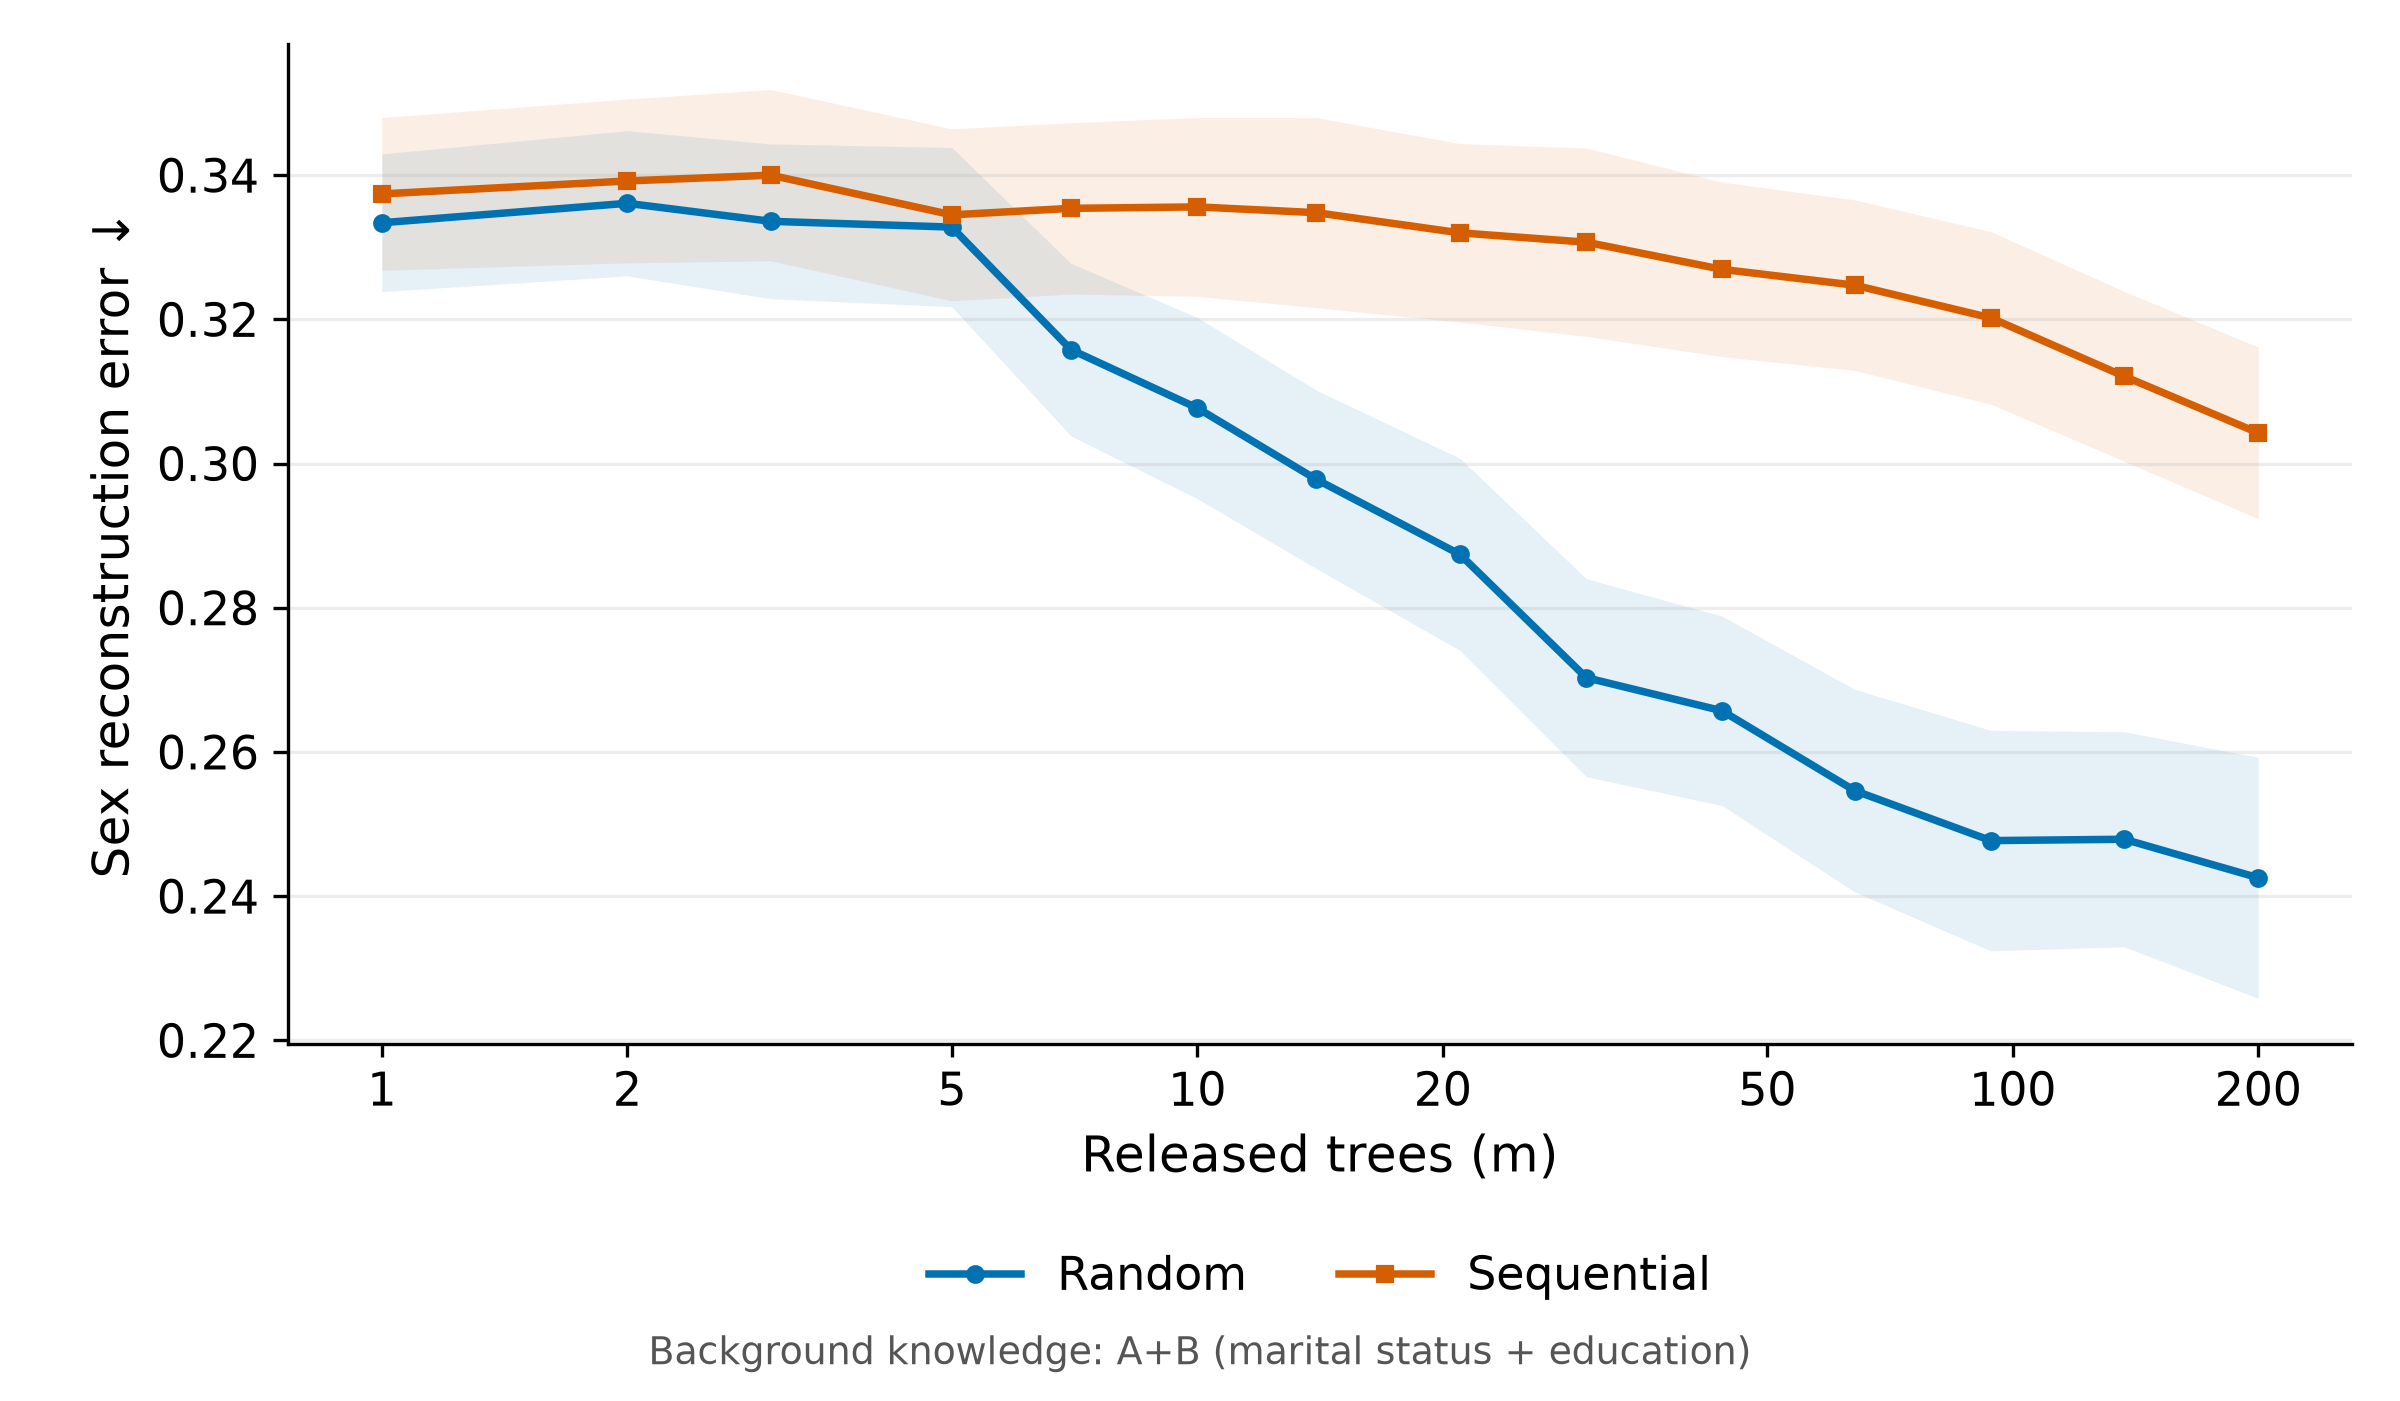
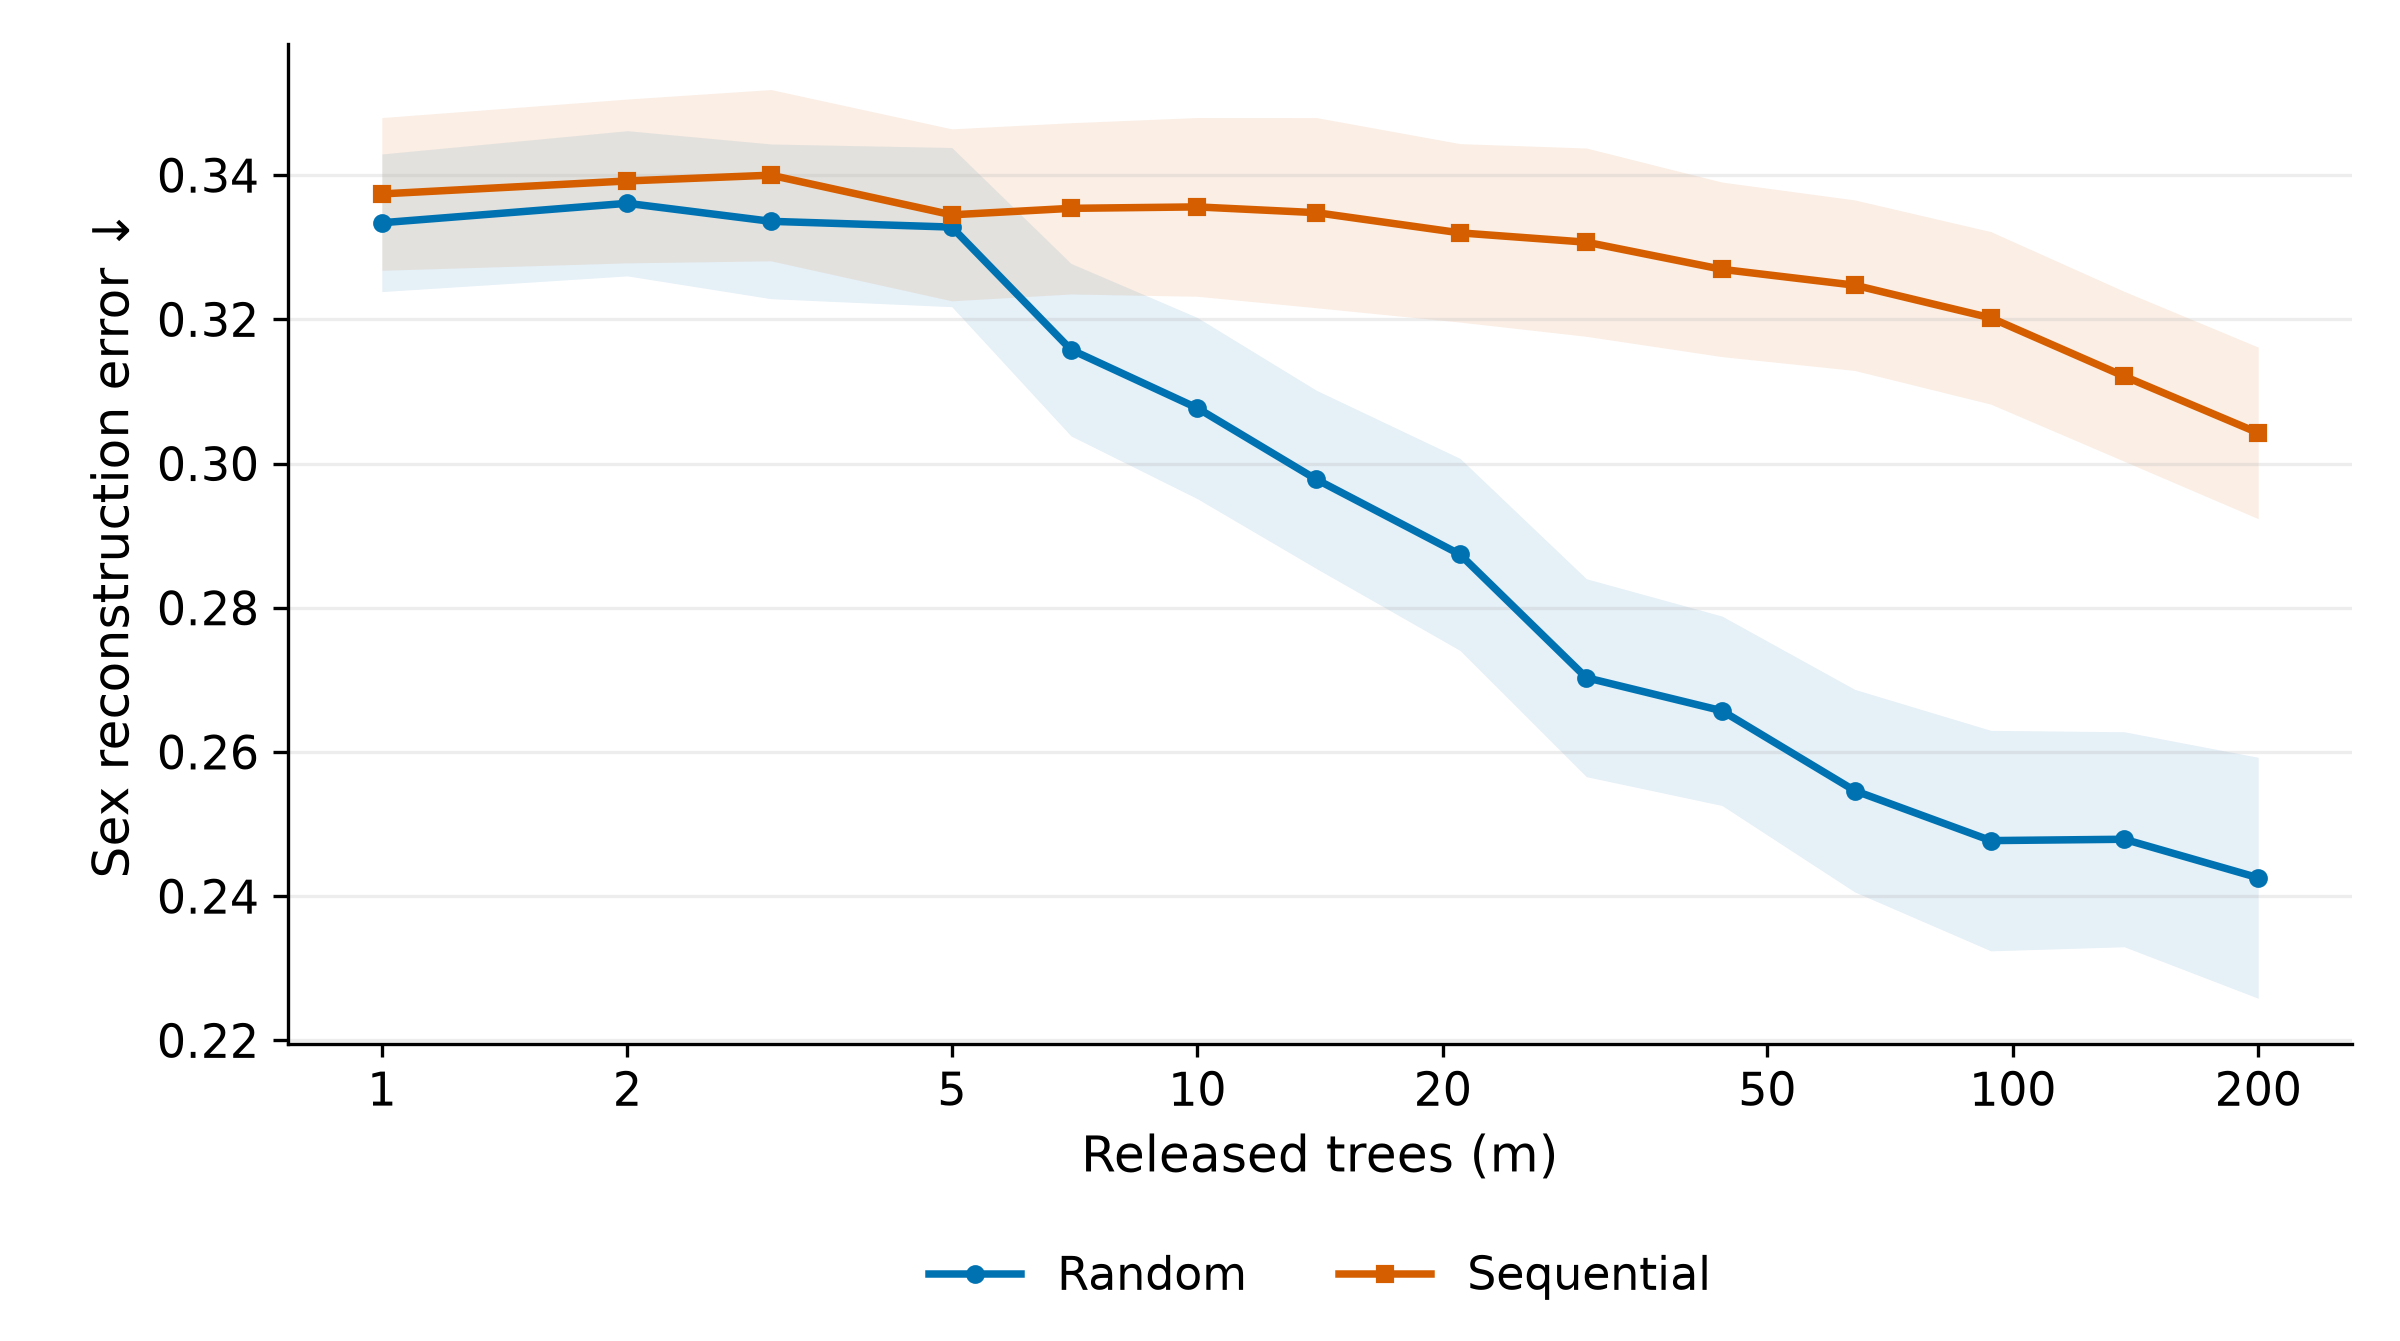
Selection figure without its caption line; public-data calibration figure
attack_selection_comparison: the "Background knowledge: A+B" line is gone
(the poster caption says it); same 4.47 in height as the other attack figures.

experiments/plot_public_data_calibration.py draws
figures/public_data_calibration.png, the poster's overconfidence bars, now
ordered 200 then 2,000 public records within each m. The 2,000-record plain
bars read the official random record-confidence run that 9d56b3a moved out of
main; the docstring gives the restore command (or pass --official-dir).

diff --git a/experiments/plot_public_data_calibration.py b/experiments/plot_public_data_calibration.py
@@ -1,0 +1,176 @@
+"""Overconfidence of the record confidence with 200 vs 2,000 public records.
+
+Usage: .venv/bin/python experiments/plot_public_data_calibration.py
+       (writes figures/public_data_calibration.png)
+
+Bars are per-seed means of stated confidence minus accuracy (prior-guided
+attacker, points) with 95% t-intervals over seeds, for a plain public prior and
+the Dirichlet record prior, at m = 10, 25, 50.
+
+The 2,000-record plain bars come from the official random record-confidence
+run, which commit 9d56b3a moved out of main. Restore it with
+    git restore --source=9d56b3a~1 --worktree -- results/record_confidence/random
+or pass --official-dir. Every other bar reads a timestamped set under results/.
+"""
+
+from __future__ import annotations
+
+import argparse
+from pathlib import Path
+
+import matplotlib
+
+matplotlib.use("Agg")
+import matplotlib.pyplot as plt
+import numpy as np
+import pandas as pd
+from scipy import stats
+
+ROOT = Path(__file__).resolve().parent.parent
+RESULTS = ROOT / "results"
+MS = (10, 25, 50)
+
+INK_2, MUTED, GRID = "#52514e", "#a3a29b", "#e6e5e0"
+# (public records, prior) -> (bar colour, legend label), in left-to-right order
+SERIES = {
+    (200, "plain"): ("#6f6e68", "200 records, plain"),
+    (200, "dirichlet"): ("#2a78d6", "200 records, Dirichlet"),
+    (2000, "plain"): ("#b9b8b1", "2,000 records, plain"),
+    (2000, "dirichlet"): ("#8db9f0", "2,000 records, Dirichlet"),
+}
+# Result sets per (public records, prior) and m, relative to results/; None
+# marks the official run passed as --official-dir.
+SETS = {
+    (200, "plain"): {
+        10: "20261020_210941/record_confidence/m010",
+        25: "20261022_080000/record_confidence/m025",
+        50: "20261022_080000/record_confidence/m050",
+    },
+    (200, "dirichlet"): {
+        10: "20261020_224806/record_confidence/m010",
+        25: "20261022_080000_01/record_confidence/m025",
+        50: "20261022_080000_01/record_confidence/m050",
+    },
+    (2000, "plain"): {m: None for m in MS},
+    (2000, "dirichlet"): {
+        10: "20261020_234026/record_confidence/m010",
+        25: "20261023_130000/record_confidence/m025",
+        50: "20261023_130000/record_confidence/m050",
+    },
+}
+
+plt.rcParams.update(
+    {
+        "font.family": "Inter",
+        "font.size": 14,
+        "axes.labelsize": 14,
+        "xtick.labelsize": 13,
+        "ytick.labelsize": 13,
+        "axes.edgecolor": MUTED,
+        "axes.labelcolor": INK_2,
+        "xtick.color": INK_2,
+        "ytick.color": INK_2,
+        "axes.spines.top": False,
+        "axes.spines.right": False,
+        "axes.grid": True,
+        "axes.grid.axis": "y",
+        "grid.color": GRID,
+        "grid.linewidth": 1,
+        "savefig.bbox": "tight",
+        "savefig.pad_inches": 0.05,
+    }
+)
+
+
+def overconfidence(directory: Path) -> tuple[float, float]:
+    """Per-seed mean of confidence minus correctness, with its 95% half-width."""
+    rows = pd.concat(pd.read_csv(f) for f in sorted(directory.glob("seed*.csv")))
+    by_seed = rows[rows.method == "prior_guided"].groupby("seed")
+    v = (by_seed.confidence.mean() - by_seed.correct.mean()).to_numpy() * 100
+    return v.mean(), stats.t.ppf(0.975, len(v) - 1) * stats.sem(v)
+
+
+def main() -> None:
+    parser = argparse.ArgumentParser(description=__doc__)
+    parser.add_argument(
+        "--official-dir", type=Path, default=RESULTS / "record_confidence" / "random"
+    )
+    parser.add_argument(
+        "--out", type=Path, default=ROOT / "figures" / "public_data_calibration.png"
+    )
+    args = parser.parse_args()
+
+    fig, ax = plt.subplots(figsize=(6.9, 3.4))
+    width = 0.17
+    # two pairs per m, public data growing left to right: 200 records, gap, 2,000
+    for (key, (color, label)), offset in zip(
+        SERIES.items(), (-0.29, -0.12, 0.12, 0.29)
+    ):
+        bars = [
+            overconfidence(
+                args.official_dir / f"m{m:03d}" if d is None else RESULTS / d
+            )
+            for m, d in SETS[key].items()
+        ]
+        xs = np.arange(len(MS)) + offset
+        means, halves = zip(*bars)
+        ax.bar(
+            xs,
+            means,
+            width * 0.92,
+            color=color,
+            yerr=halves,
+            ecolor=INK_2,
+            capsize=3,
+            error_kw={"lw": 1.2},
+            label=label,
+        )
+        for x, mean, half in zip(xs, means, halves):
+            ax.annotate(
+                f"{mean:.1f}",
+                (x, mean + half),
+                xytext=(0, 3),
+                textcoords="offset points",
+                ha="center",
+                va="bottom",
+                fontsize=11,
+                color="#0b0b0b",
+            )
+    ax.set_axisbelow(True)
+    # under each pair its public-data size, under each group its m
+    pair_x = [g + d for g in range(len(MS)) for d in (-0.205, 0.205)]
+    ax.set_xticks(pair_x, ["200", "2,000"] * len(MS), fontsize=11)
+    ax.tick_params(axis="x", length=0, pad=4)
+    for g, m in enumerate(MS):
+        ax.text(
+            g,
+            -0.17,
+            f"m = {m}",
+            transform=ax.get_xaxis_transform(),
+            ha="center",
+            va="top",
+            fontsize=13,
+            color=INK_2,
+        )
+    ax.axhline(0, color=MUTED, lw=1)
+    ax.set_xlim(-0.5, len(MS) - 0.5)
+    ax.set_ylim(0, 11)
+    ax.set_yticks([0, 2, 4, 6, 8, 10])
+    ax.set_ylabel("overconfidence (points)")
+    ax.legend(
+        frameon=False,
+        fontsize=11,
+        loc="lower left",
+        bbox_to_anchor=(0, 1.02),
+        ncol=2,
+        borderaxespad=0,
+        columnspacing=1.6,
+        handlelength=1.2,
+    )
+    fig.savefig(args.out, dpi=300)
+    plt.close(fig)
+    print(f"wrote {args.out}")
+
+
+if __name__ == "__main__":
+    main()

diff --git a/experiments/plotting/attack_figures.py b/experiments/plotting/attack_figures.py
@@ -316,10 +316,7 @@ def render(args, output_dir: Path, data_dir: Path) -> None:
                 styles,
                 None,
                 "Predictive accuracy on Y",
-                {
-                    "uncertainty": True,
-                    "background_label": "Background knowledge: A+B (marital status + education)",
-                },
+                {"uncertainty": True, "height": 4.47},
             )
         )
         data_path = data_dir / f"{stem.name}.csv"

diff --git a/README.md b/README.md
@@ -97,6 +97,11 @@ same names. Derived plotting tables and `sources.json` are kept in
 `figures/data/`. Raw seed data and manifests remain in their source folders
 under timestamped folders in `results/`.
 
+`experiments/plot_public_data_calibration.py` draws the record-confidence
+overconfidence figure (`figures/public_data_calibration.png`: 200 vs 2,000
+public records, plain vs Dirichlet prior). Its docstring names the archived run
+it needs for the 2,000-record plain bars.
+
 ### Held-out predictive accuracy
 
 New `make run`, `make run-final` and `make pilot` runs compute predictive income
